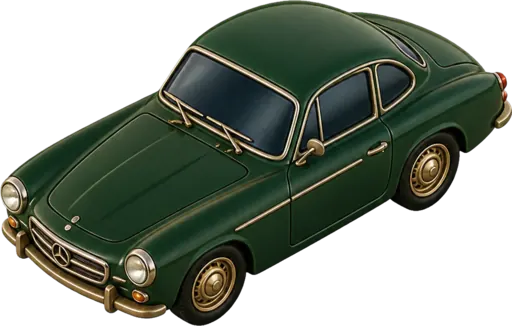
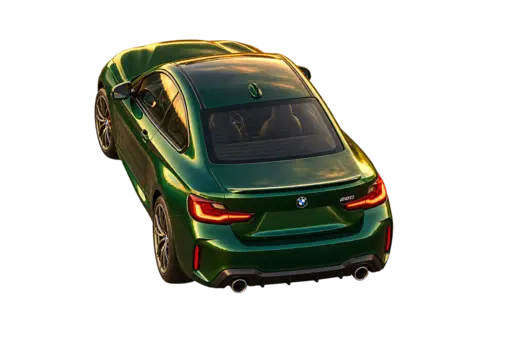
design: replace road world pawns with rear views

diff --git a/design/proposals/road-world-rear-view-pawns.md b/design/proposals/road-world-rear-view-pawns.md
@@ -1,0 +1,21 @@
+# Road World Rear-View Pawns
+
+## Delivered assets
+
+- `assets/world/pawn-shun-m3.webp`: purple BMW M3 Touring, rear three-quarter elevated view.
+- `assets/world/pawn-sayano-220.webp`: emerald BMW 220 Coupe, rear three-quarter elevated view.
+
+Both files are 512 x 349 alpha WebP files and replace the previous front-facing pawns in place.
+
+## Integration contract
+
+- The top of each asset is the forward direction. Place it without CSS rotation on the road's center axis, pointing toward the top-center horizon.
+- Both pawns share a camera height and warm sunset key light with `road-world-environment-v1.webp`.
+- The 220 is a BMW coupe, with BMW rear proportions and badge; it deliberately no longer resembles a Mercedes coupe.
+- Keep the current z-based scale and position logic. This update changes only the visual facing direction, so no geometry change is required.
+
+## Verification
+
+- Transparent canvas confirmed on both assets.
+- Dimensions normalized to 512 x 349 for matching display scale.
+- Each file is under 20 KB, well within the offline asset budget.
